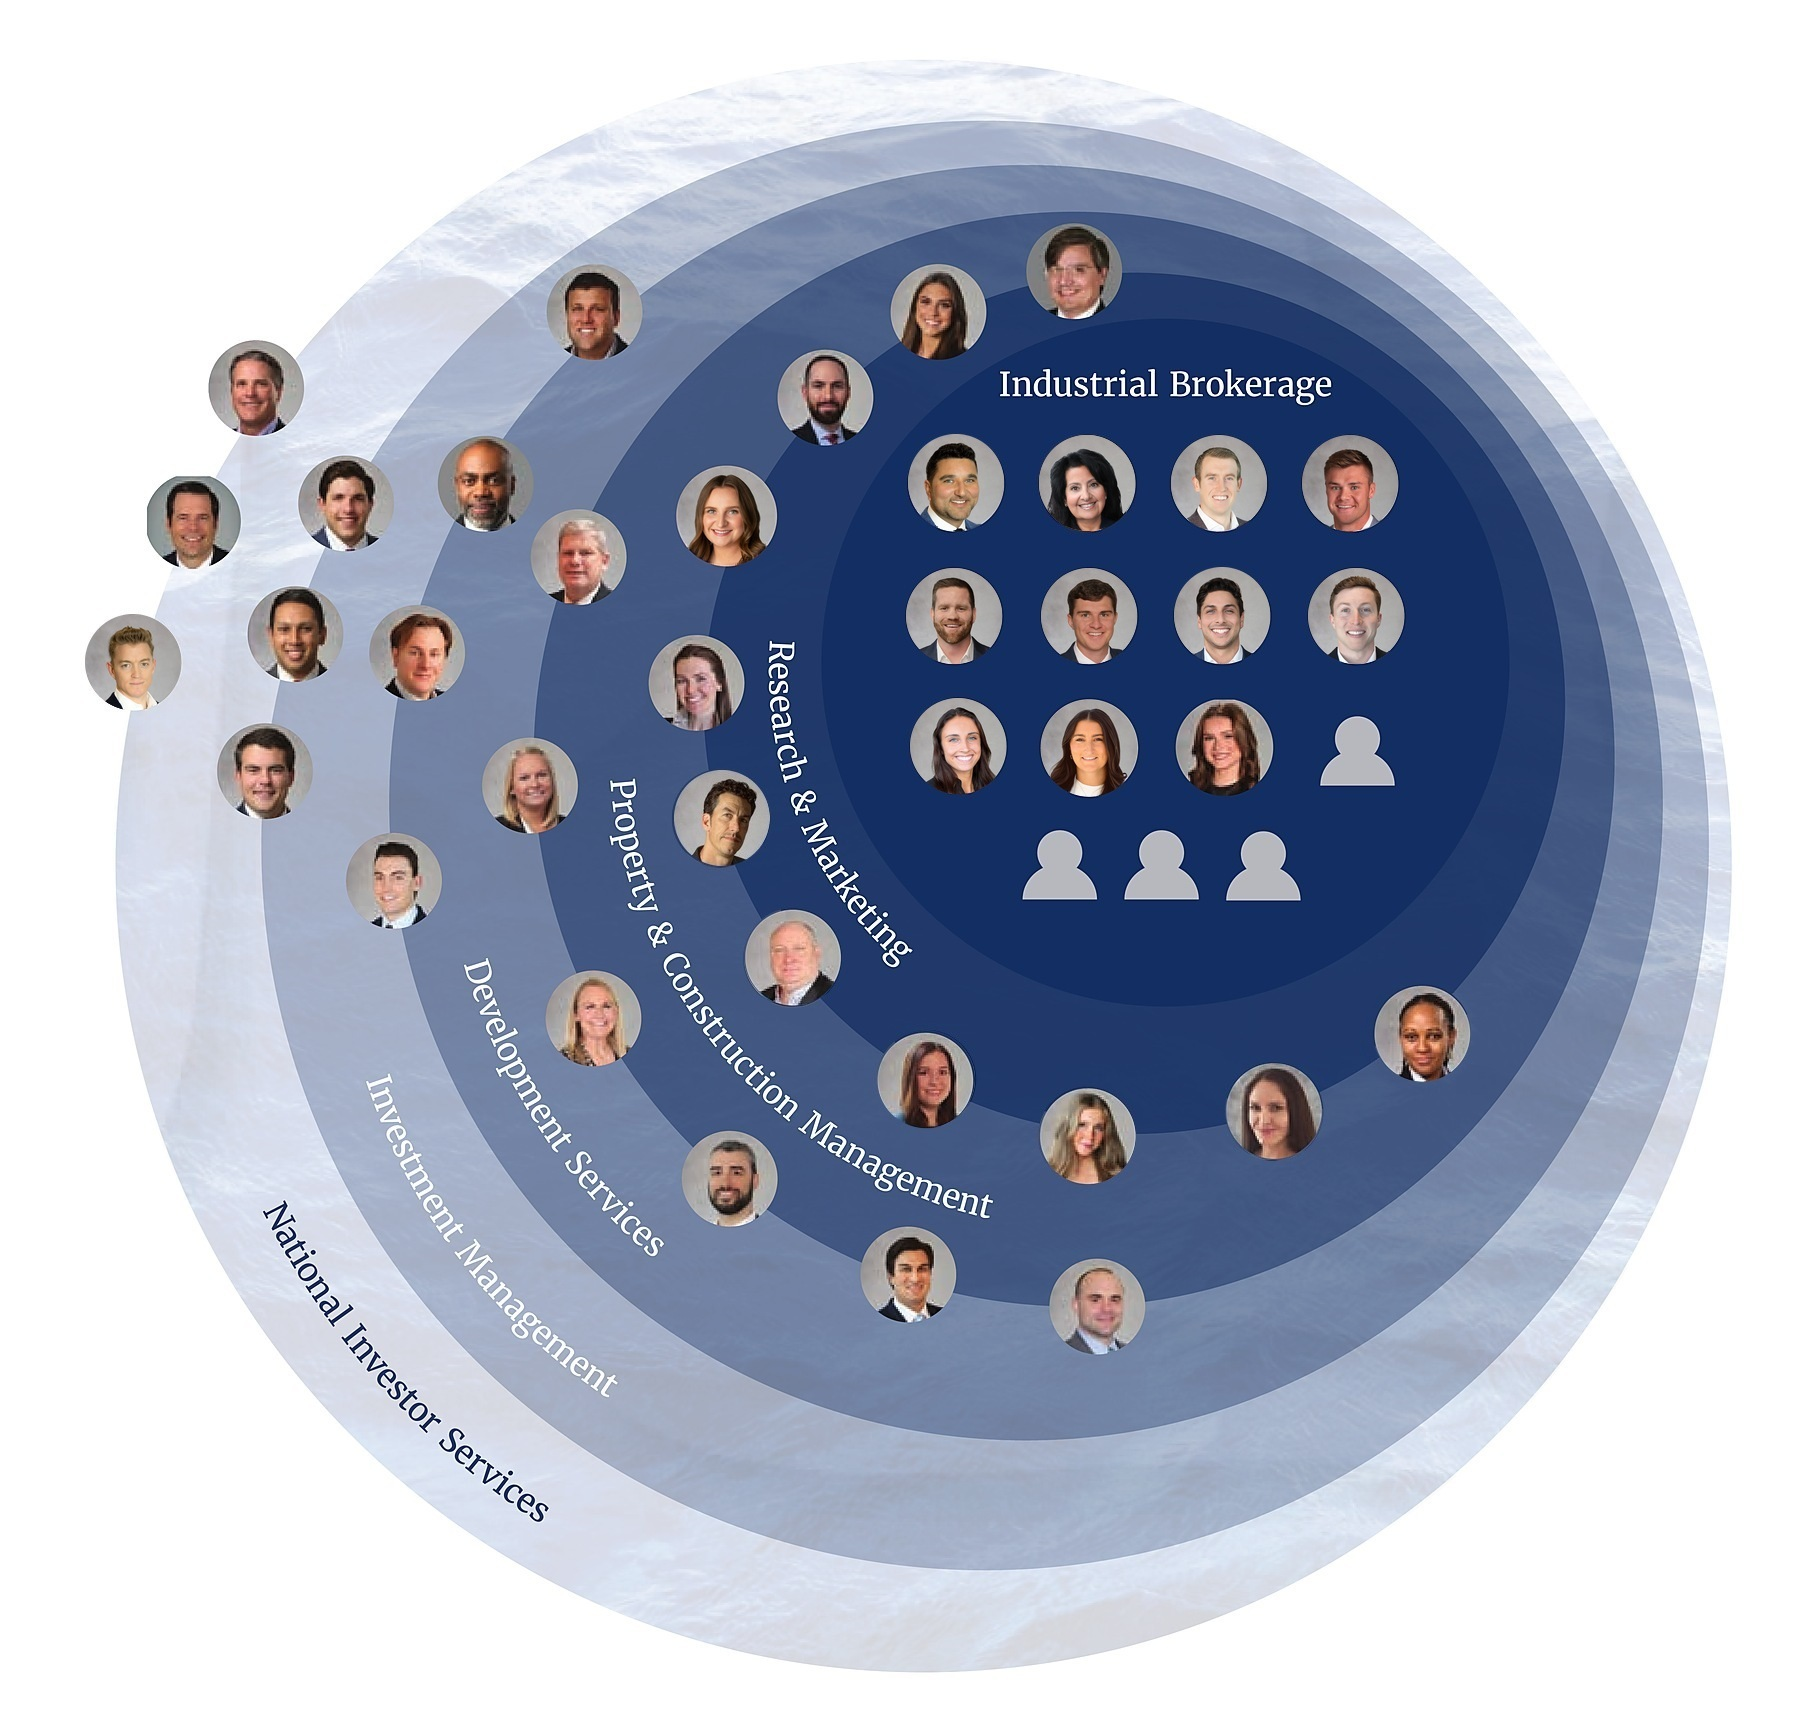
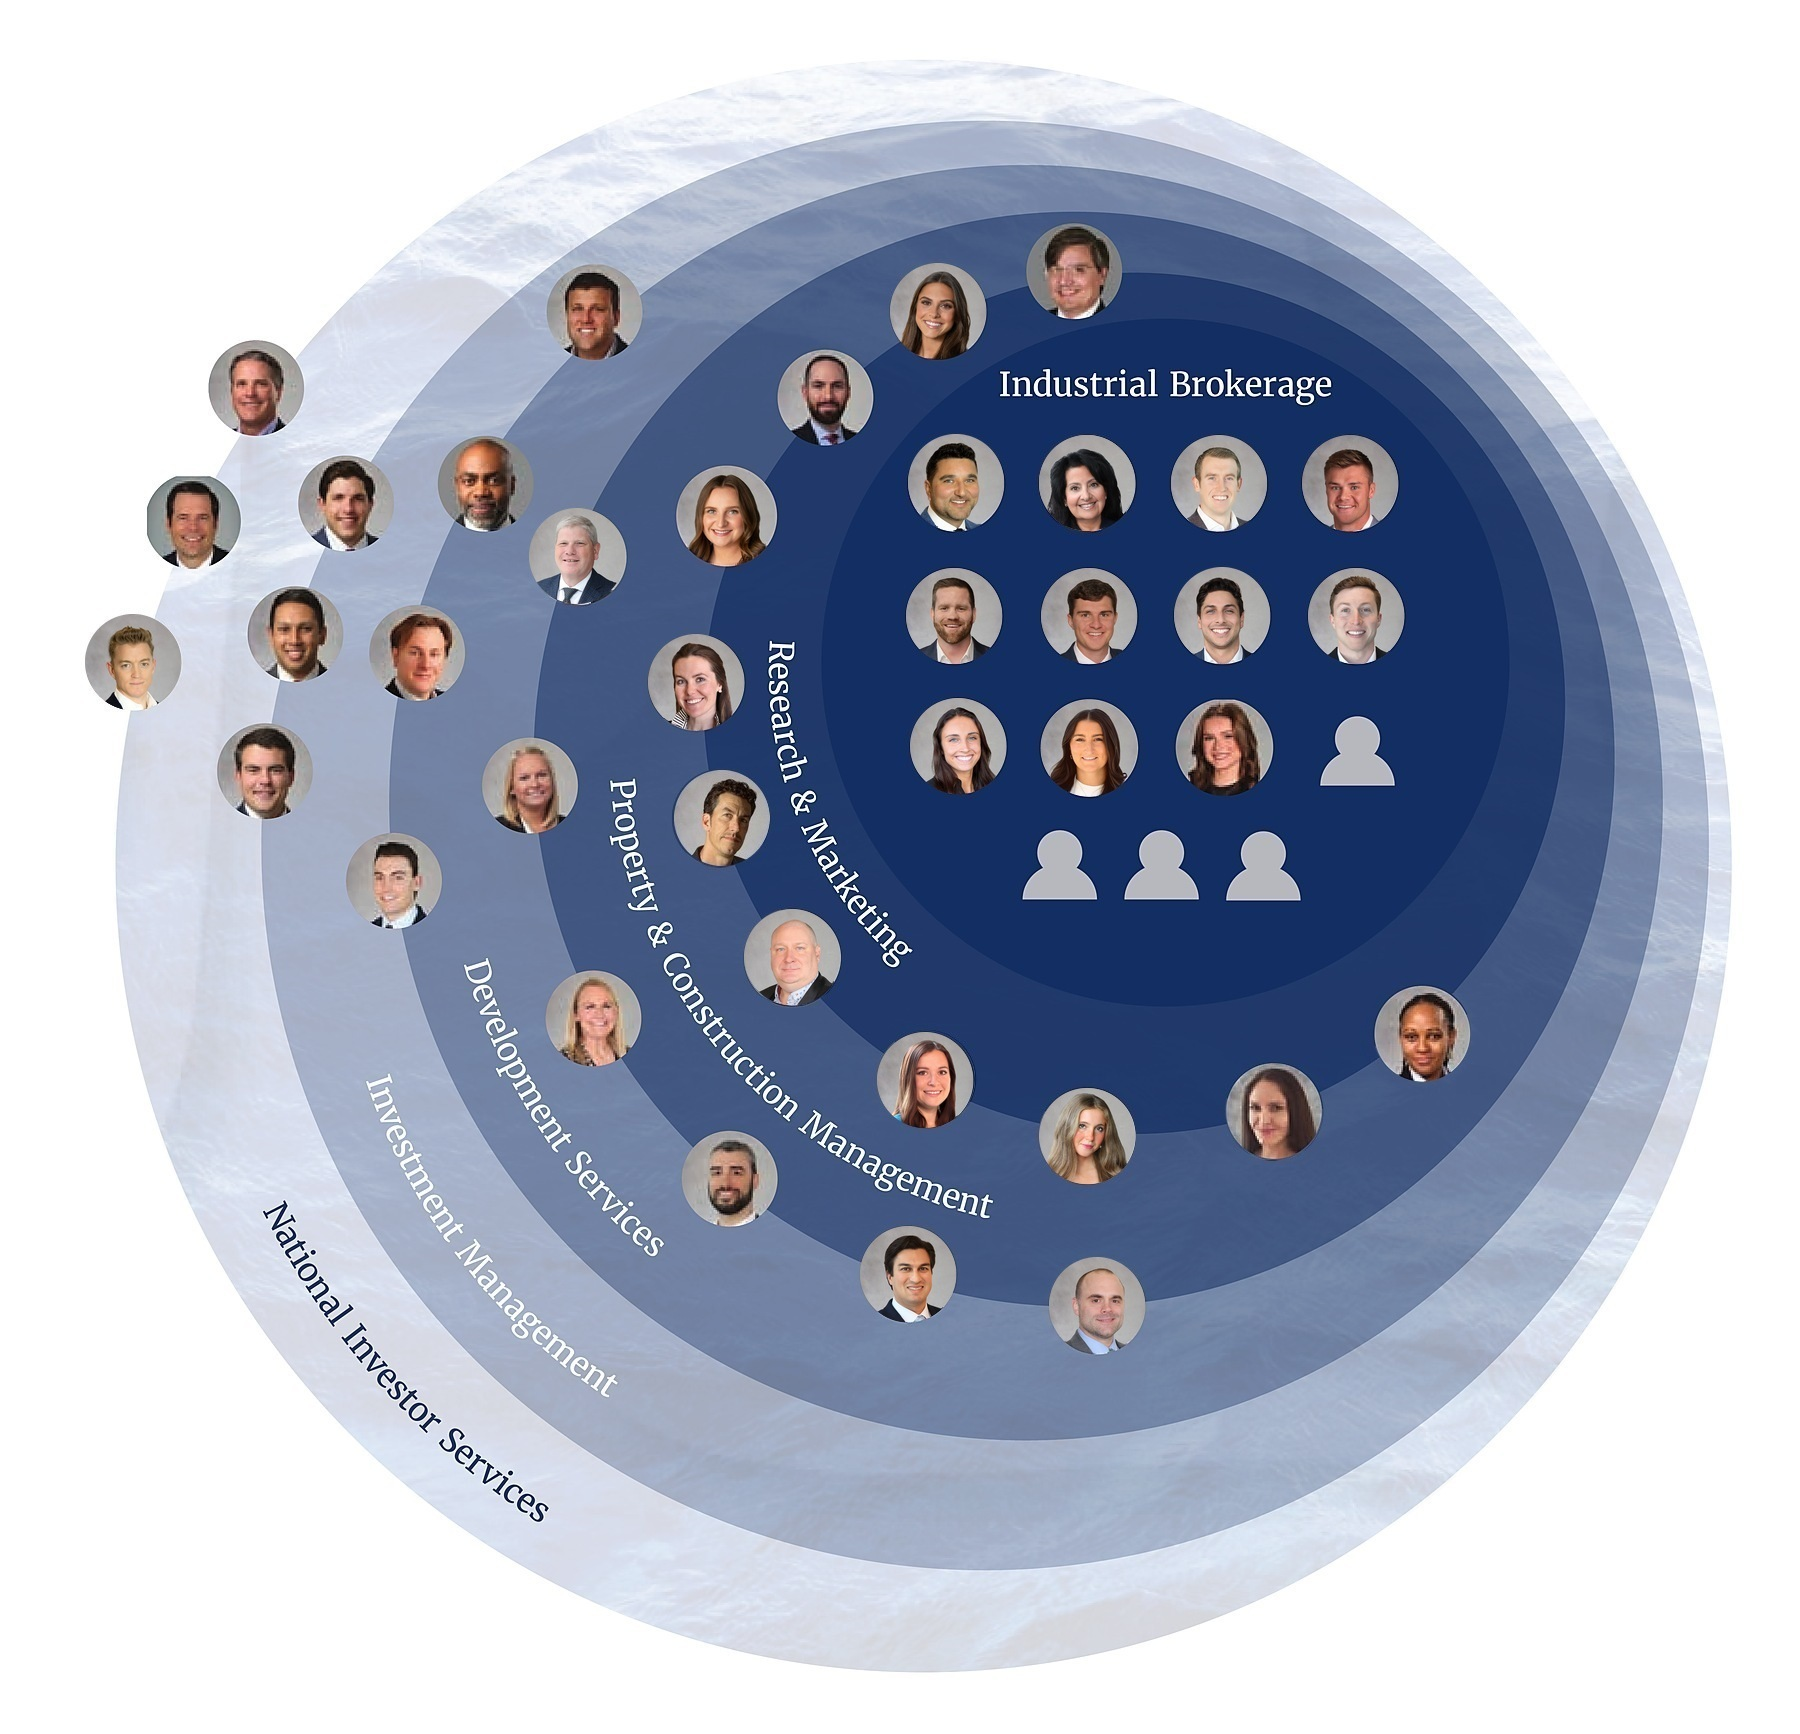
Sharpen eight more circle headshots from streamrealty.com
Lily Panos, Brian Keaty, Marissa Rupert, Michael Krzewicki, Kaitlyn
Maloney, Celia Burch, Eric D'Souza and Bob Climack.

Claude-Session: https://claude.ai/code/session_013rjN9eXsQUGtogBW2y87jx

diff --git a/index.html b/index.html
@@ -141,7 +141,7 @@
           </ol>
         </div>
         <figure class="numbers__org">
-          <img src="img/org-circle.jpg?v=5" alt="Stream Chicago platform: Industrial Brokerage, Research &amp; Marketing, Property &amp; Construction Management, Development Services, Investment Management and National Investor Services" width="1800" height="1734" loading="lazy">
+          <img src="img/org-circle.jpg?v=6" alt="Stream Chicago platform: Industrial Brokerage, Research &amp; Marketing, Property &amp; Construction Management, Development Services, Investment Management and National Investor Services" width="1800" height="1734" loading="lazy">
         </figure>
       </div>
       <div class="water-band" aria-hidden="true"></div>
